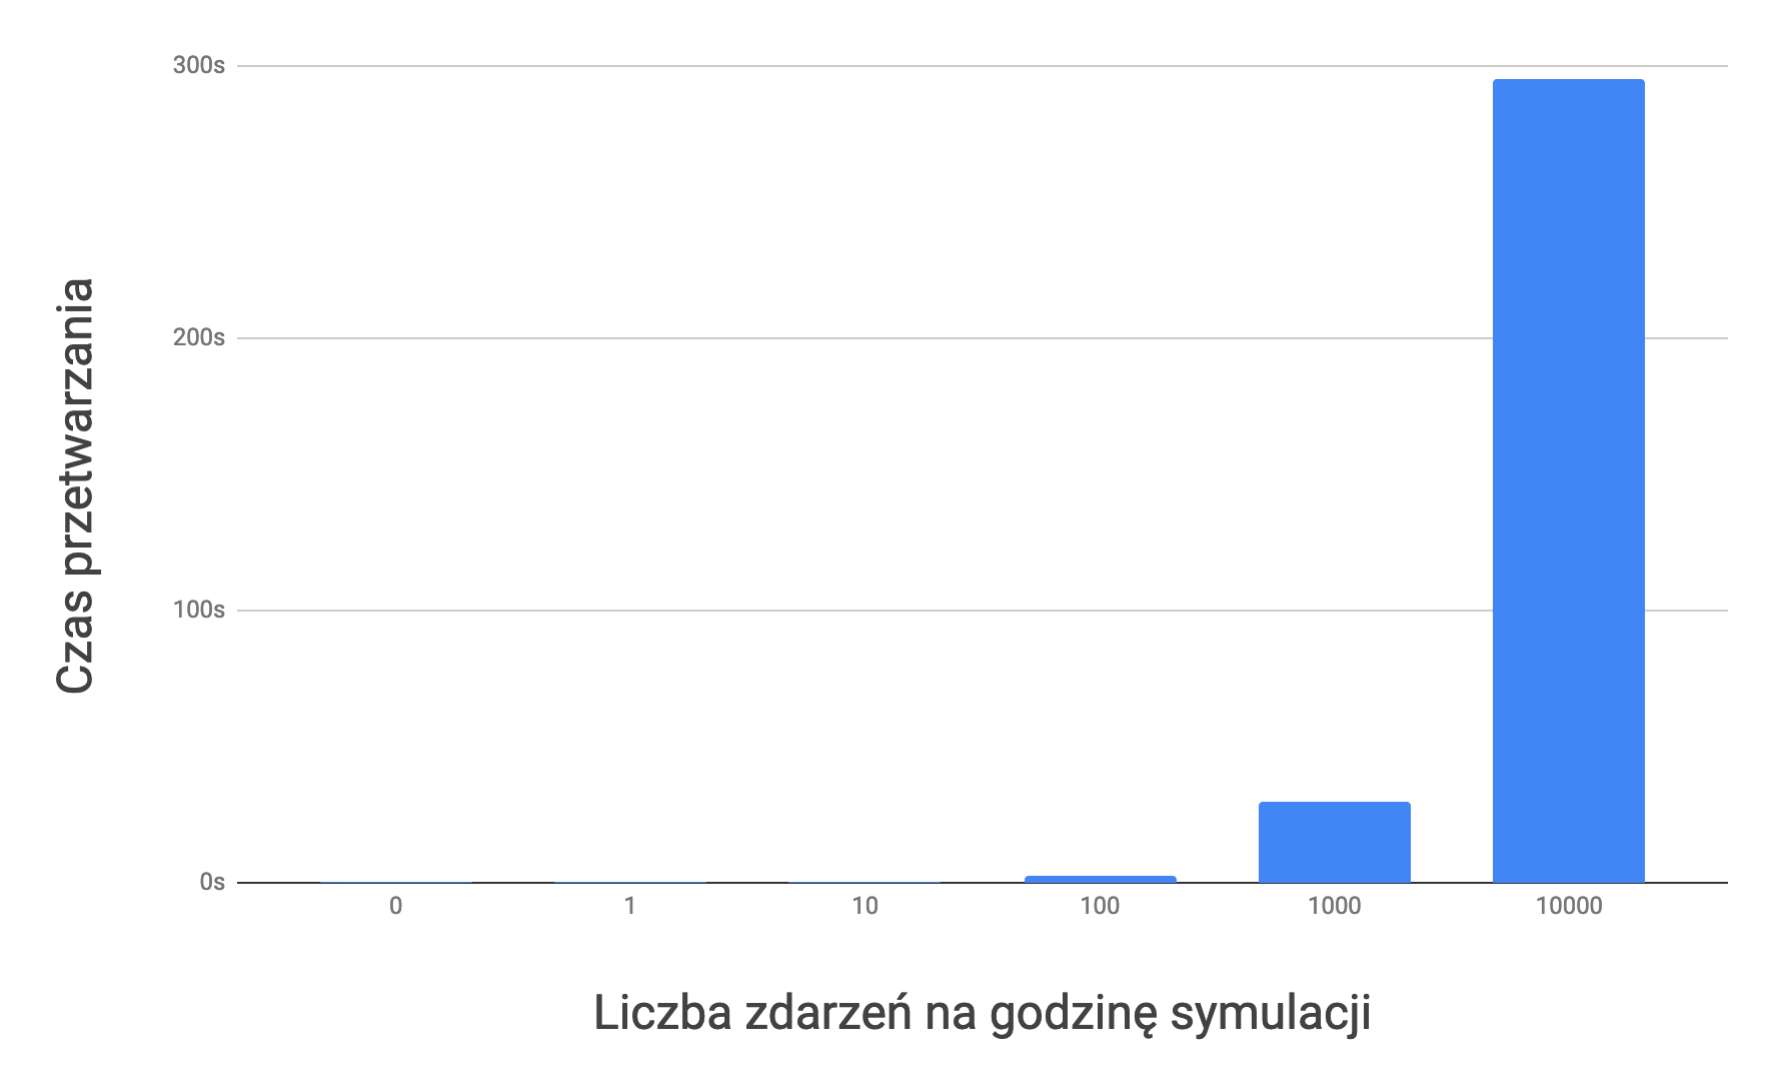
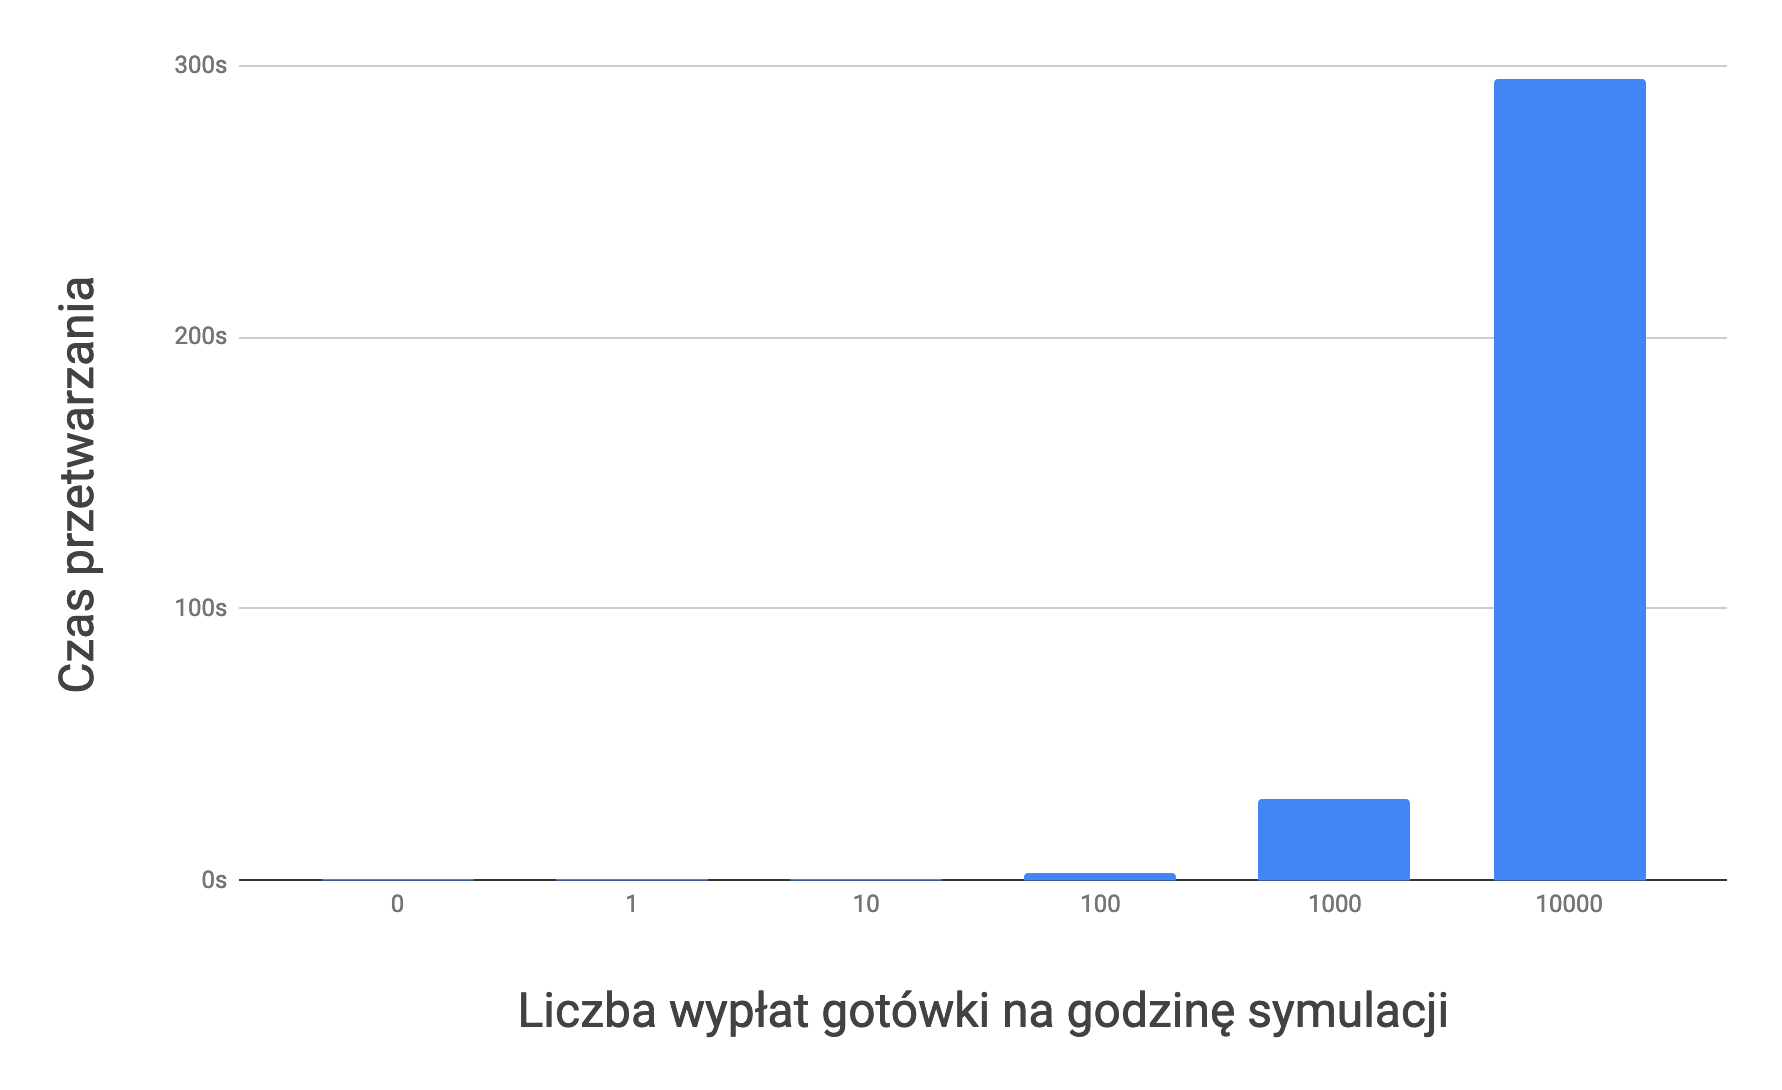
Summary wireframe

diff --git a/3-project.md b/3-project.md
@@ -435,27 +435,27 @@ Zachowanie to można zinterpretować jako przypadek zastosowania *prawa Amdhala*
 
 ### Zmienna liczba zdarzeń na godzinę symulacji
 
-| Liczba zdarzeń na godzinę czasu symulacji | Czas przetwarzania (s) |
-|-------------------------------------------|------------------------|
-| 0                                         | 0.250330537            |
-| 1                                         | 0.264598115            |
-| 10                                        | 0.389471400            |
-| 100                                       | 2.658253438            |
-| 1000                                      | 30.12316105            |
-| 10000                                     | 295.2026618            |
+| Liczba wypłat gotówki na godzinę czasu symulacji | Czas przetwarzania (s) |
+|--------------------------------------------------|------------------------|
+| 0                                                | 0.250330537            |
+| 1                                                | 0.264598115            |
+| 10                                               | 0.389471400            |
+| 100                                              | 2.658253438            |
+| 1000                                             | 30.12316105            |
+| 10000                                            | 295.2026618            |
 
-Table: Czas przetwarzania w zależności od liczby zdarzeń na godzinę czasu symulacji
+Table: Czas przetwarzania w zależności od liczby wypłat gotówki na godzinę czasu symulacji
 
 \begin{figure}[htbp]
 \centering
 \includegraphics[width=160mm]{graphics/benchmark-events-direct.png}
-\caption{Wykres czasu przetwarzania w zależności od liczby zdarzeń na godzinę czasu symulacji}
+\caption{Wykres czasu przetwarzania w zależności od liczby wypłat gotówki na godzinę czasu symulacji}
 \end{figure}
 
 \begin{figure}[htbp]
 \centering
 \includegraphics[width=160mm]{graphics/benchmark-events-log.png}
-\caption{Logarytmiczny wykres czasu przetwarzania w zależności od liczby zdarzeń na godzinę czasu symulacji}
+\caption{Logarytmiczny wykres czasu przetwarzania w zależności od liczby wypłat gotówki na godzinę czasu symulacji}
 \end{figure}
 
 Wariant z liczbą bankomatów równą 0 jest próbą kontrolną. Można zaobserwować liniową zależność czasu przetwarzania do liczby zdarzeń na godzinę symulacji. Zwiększając liczbę zdarzeń dziesięciokrotnie czas przetwarzania również rośnie dziesięciokrotnie.
@@ -486,4 +486,6 @@ Table: Czas przetwarzania w zależności od okresu symulacji
 \caption{Logarytmiczny wykres czasu przetwarzania w zależności od okresu symulacji}
 \end{figure}
 
-Wariant z liczbą bankomatów równą 0 jest próbą kontrolną. Można zaobserwować zbliżoną do liniowej zależność czasu przetwarzania do liczby zdarzeń na godzinę symulacji. Zwiększając liczbę zdarzeń o rząd wielkości czas przetwarzania również rośnie o rząd wielkości. Nie jest to tak jednoznaczna zależność jak w przypadku zmiennej liczby zdarzeń na godzinę czasu symulacji.
+Wariant z liczbą bankomatów równą 0 jest próbą kontrolną. Można zaobserwować zbliżoną do liniowej zależność czasu przetwarzania do liczby zdarzeń na godzinę symulacji. Zwiększając liczbę zdarzeń o rząd wielkości czas przetwarzania również rośnie o rząd wielkości. Nie jest to tak jednoznaczna zależność jak w przypadku zmiennej liczby zdarzeń na godzinę czasu symulacji. 
+Zgodnie z założeniami projektu symulator powinien symulować długie okresy czasu w rozsądnym czasie. Biorąc pod uwagę, że rok nieprzestępny składa się 8760 godzin, wariantem najbliższym tej liczbie jest wariant numer 6 z okresem symulacji równym 10000 godzin, którego czas przetwarzania wyniósł 12 sekund. Jednakże należy zwrócić uwagę na fakt, że tej konfiguracji wykonywane jest jedynie 100 wypłat gotówki na godzinę ze 100 bankomatów. Analizując dane statystyczne wypłat z bankomatów w Polsce \autocite{nbp:stats} można obliczyć, że średnia liczba wypłat dla pojedynczego bankomatu wynosi 3 na godzinę, zaś w opisywanym wariancie liczba ta wynosi jedną wypłatę na godzinę. Patrząc na wyniki poprzednich wariantów można wywnioskować, że czas przetwarzania symulacji jest liniowo zależny od liczby wypłat na godzinę symulacji.
+W świetle powyższych danych można wywnioskować, że zwiększając trzykrotnie liczbę wypłat z bankomatów, tak aby średnia odpowiadała średniej w Polsce, czas przetwarzania wydłuży się trzykrotnie do czasu przetwarzania 36 sekund. 

diff --git a/2-related-work.md b/2-related-work.md
@@ -67,7 +67,7 @@ Aby stworzyć model potrzebna jest znacząca ilość informacji, które mogą by
 Jednak dane to nie wszystko. Potrzeba specjalistycznej wiedzy, wykraczającej poza wytwarzanie oprogramowania. Myślenie wysokopoziomowe, konceptualne, wiedza statystyczna oraz umiejętność zarządzania projektem często są niezbędne tworząc symulację od podstaw.
 Największa zaleta symulacji jest także jej największą wadą. Możliwość przeprowadzania eksperymentów komputerowych w oderwaniu od rzeczywistości wprowadza dozę niepewności. Analizując wyniki symulacji należy przyłożyć szczególną uwagę na to, że powstały na podstawie pewnych założeń oraz uproszczonego modelu rzeczywistości.
 
-Eksperymenty, fizyczne, ekonomiczne lub socjologiczne, w świecie rzeczywistym bywają skomplikowane lub niemożliwe do przeprowadzenia. Symulacja jest procesem umożliwiającym takie eksperymenty poprzez proces reprezentacji świata rzeczywistego jako uproszczonego, abstrakcyjnego modelu. Aby wprowadzić element różnorodności do symulacji, w wielu przypadkach wykorzystywana jest losowość. Umożliwia to naukowcom wykorzystanie statystycznych obserwacji do uzupełnienia szczegółów uproszczonego modelu, których nie da się przedstawić w modelu matematycznym lub czynniki ten nie mają bezpośredniego wpływu na badanie. Połączenie losowości ze sterowaniem warunkami modelu umożliwia generowanie wyników poprzez zapis cyklu uruchomień modelu i statystyczną ich analizę. Obiektem dyskusji w tej pracy są symulacje komputerowe, chociaż historia symulacji sięga daleko przed powstaniem komputerów. Przed komputerami, dużą rolę w symulacjach odgrywało modelowanie matematyczne. W tej dziedzinie cały system jest przedstawiony w postaci zbioru równań, obliczanych dla zadanych parametrów. W kontraście symulacje opierają się na uruchomieniach modelu, dla których dwa wyniki z tymi samymi warunkami początkowymi mogą być inne. 
+Eksperymenty, fizyczne, ekonomiczne lub socjologiczne, w świecie rzeczywistym bywają skomplikowane lub niemożliwe do przeprowadzenia. Symulacja jest procesem umożliwiającym takie eksperymenty poprzez reprezentację świata rzeczywistego jako uproszczonego, abstrakcyjnego modelu. Aby wprowadzić element różnorodności do symulacji, w wielu przypadkach wykorzystywana jest losowość. Umożliwia to naukowcom wykorzystanie statystycznych obserwacji do uzupełnienia szczegółów uproszczonego modelu, których nie da się przedstawić w modelu matematycznym lub czynniki ten nie mają bezpośredniego wpływu na badanie. Połączenie losowości ze sterowaniem warunkami modelu umożliwia generowanie wyników poprzez zapis cyklu uruchomień modelu i statystyczną ich analizę. Obiektem dyskusji w tej pracy są symulacje komputerowe, chociaż historia symulacji sięga daleko przed powstaniem komputerów. Przed komputerami, dużą rolę w symulacjach odgrywało modelowanie matematyczne. W tej dziedzinie cały system jest przedstawiony w postaci zbioru równań, obliczanych dla zadanych parametrów. W kontraście symulacje opierają się na uruchomieniach modelu, dla których dwa wyniki z tymi samymi warunkami początkowymi mogą być inne. 
 
 Symulacje komputerowe dzielą się na dwie kategorie. Pierwszą z nich stanowią modele, w których aktorzy, ludzie lub inne elementy świata rzeczywistego, wchodzą w interakcję z systemem w czasie symulacji. Systemy te są często nazywane systemami "w pętli" lub symulacją z "ludźmi w pętli". Sztandarowymi przykładem tego typu symulacji są gry komputerowe, interaktywne systemy treningu wojskowego oraz systemy testowania maszyn przemysłowych. Drugą z kategorii są symulacje, w których cały system jest zaprojektowany jako oprogramowanie komputerowe. Wśród nich znajdują się symulacje ze zdarzeniami dyskretnymi, symulacje z czasem dyskretnym oraz symulacje statystyczne/Monte Carlo. Kluczową cechą wyróżniającą metody "w pętli" od pozostałych jest wymaganie odpowiedzi w czasie rzeczywistym.  Systemy "w pętli" muszą odpowiadać w zadanym czasie, aby zewnętrzny obserwator, człowiek lub maszyna, otrzymał odpowiedź na wykonaną akcje. W przeciwieństwie do systemów "W pętli" pozostałe systemy generują wyniki symulacji w dowolnych odstępach czasowych.
 

diff --git a/1-introduction.md b/1-introduction.md
@@ -5,7 +5,7 @@ Modele symulacyjne są częścią życia codziennego, więc pojęcie symulacji n
 Dynamiczny rozwój sprzętu komputerowego umożliwia tworzenie coraz bardziej złożonych algorytmów oraz dokładniejsze modelowanie rzeczywistości.
 Symulacje nie muszą opierać się na oprogramowaniu komputerowym. Modele kolei i zdalnie sterowane pojazdy, jak łodzie i samochody, są przykładami symulacji fizycznych spotykanych na co dzień.
 Innym codziennym procesem jest bankowość. Większość Polaków posiada rachunek bankowy i korzysta z usług finansowych banków \autocite{nbp:raportpolakow}.
-W Polsce tylko w 2018 dokonano prawie 710 milionów transakcji w bankomatach (*ang. \gls{atm}*) na łączną wartość 429 miliardów złotych. \autocite{nbp:bankomaty}.
+W Polsce w samym 2018 roku dokonano prawie 710 milionów transakcji w bankomatach (*ang. \gls{atm}*) na łączną wartość 429 miliardów złotych. \autocite{nbp:bankomaty}.
 
 Na rynku można znaleźć wiele przykładów oprogramowania służącego do symulacji automatów bankomatowych \autocite{oclf:atm:simulation, tranzway:atm:simulator}. Udostępniają one zbiór interfejsów użytkownika końcowego wielu producentów sprzętu i oprogramowania do bankomatów. Z jego pomocą użytkownik może dokonać szeregu różnych operacji w systemie bankomatowym, jak wypłata gotówki, przelew czy opłata rachunków. Symulatory te umożliwiają również symulację szeregu dostępnych na rynku protokołów komunikacyjnych oraz operacji serwisowych dokonywanych przez operatorów bankomatu.
 Są to zaawansowane aplikacje, realistycznie odwzorowujące pracę pojedynczej maszyny. Niestety nie udało się odnaleźć oprogramowania zdolnego do symulowania interakcji ludzi z siecią wielu bankomatów na terenie miasta na podstawie przygotowanej konfiguracji i danych wejściowych.
@@ -19,8 +19,10 @@ W skład stworzonych narzędzi wchodzi interfejs graficzny do wizualizacji wynik
 
 # Zastosowanie
 
-Wyniki tej pracy można zastosować w dziedzinach naukowych, dydaktycznych lub rozrywkowych. Wykorzystując podstawową funkcję symulacyjną naturalnym zastosowaniem są badania naukowe, których przykładem może być badanie wpływu wydarzeń społecznych, jak imprezy masowe, na infrastrukturę bankomatową. W dydaktyce przygotowany symulator można wykorzystać na zajęciach z tematyki badania rozkładów prawdopodobieństwa oraz opracowywania najkrótszych ścieżek dla pojazdów zaopatrzenia bankomatów. Logistyka odgrywa znaczną rolę w obsłudze infrastruktury bankowej. Przy dziesiątkach tysięcy bankomatów w całej Polsce, optymalizacja uzupełniania sejfów bankomatowych jest złożonym, wielowymiarowym problemem. Gry komputerowe są popularną rozrywką budującą coraz większy rynek na świecie \autocite{pwc2019outlook}. Zserializowane wyniki symulacji można wykorzystać jako bazę danych do gry komputerowej
+Wyniki tej pracy można zastosować w dziedzinach naukowych, dydaktycznych lub rozrywkowych. Wykorzystując podstawową funkcję symulacyjną naturalnym zastosowaniem są badania naukowe, których przykładem może być badanie wpływu wydarzeń społecznych, jak imprezy masowe, na infrastrukturę bankomatową. W dydaktyce przygotowany symulator można wykorzystać na zajęciach z tematyki badania rozkładów prawdopodobieństwa oraz opracowywania najkrótszych ścieżek dla pojazdów zaopatrzenia bankomatów. Logistyka odgrywa znaczną rolę w obsłudze infrastruktury bankowej. Przy dziesiątkach tysięcy bankomatów w całej Polsce, optymalizacja uzupełniania sejfów bankomatowych jest złożonym, wielowymiarowym problemem. Gry komputerowe są popularną rozrywką budującą coraz większy rynek na świecie \autocite{pwc2019outlook}. Zserializowane wyniki symulacji można wykorzystać jako bazę danych do gry komputerowej.
 
 # Plan pracy
 
 TODO: plan pracy po zakończeniu
+
+Pracę podsumowują wnioski wyciągnięte w procesie tworzenia i testowania projektu oraz jego potencjalnych możliwości rozwoju.

diff --git a/4-summary.md b/4-summary.md
@@ -1,15 +1,28 @@
 \chapter{Podsumowanie}
 
-# Wnioski
+symulacja rzecz trudna. trzeba wziąć wiele rzeczy pod uwagę. model, generator
 
-# Problemy
+mimo że bankomaty w polsce tracą na znaczeniu,  szczególnie wypłaty gotówki, to wciąż są popularne. ponadto dzisijesze bankomaty dostarczają masę innych funkcji niż tylko wypłaty.
 
-# Rozszerzenia i możliwości rozwoju
+obecna implementacja jest bardzo umowną pracą bankomatu, ale silną podwaliną pod rozwój. na rynku są implementacje symulatora bankomatu, który można brać za wzór,ale zespołu bankomatów już nie, więc tutaj symulator jest na plus
 
- - funkcja wpłatomatu
- - sprawdzanie stanu konta
- - transakcja anulowana - klient rozpoczął transakcje, ale nie wypłacił pieniędzy
- - testowanie modelu
- - awarie losowe
-    - zacięcia banknotów
-    - zużycie sprzętu
+output jest elastyczny
+tekstowy format
+format loga - czytanie z góry na dół i gitara
+każda linijka to json - popularny format, można użyć w praktycznie każdym języku programowania - łatwo można wrzucić do bazy danych
+
+interfejs pozwala skonfigurować i oglądać symulację bez znajomości programowania i bebechów - json itd
+
+wizualizacja nie pozwaja na dowolne przewijanie, tylko na przyspieszanie i spowalnianie 
+
+wieloagentowy jako aktor nie wiele pomógł przez ask pattern. mamy 1000 wątków i i tak utyka przez prawo amdhala.
+
+zrobiłem działą, działa szybko, działa szybko na domowym kompie - wystarczająco szybko
+model wieloagentowy ładnie wygląda i działa. dzięki akkce wygląda intuicyjnie, bo jeden aktor to jeden agent.
+mało realistycznie odwzorowuje pracę bankomatu
+interfejs może mieć więcej inforacji
+może działać na serwerze
+może być wielodostępowy
+
+
+
